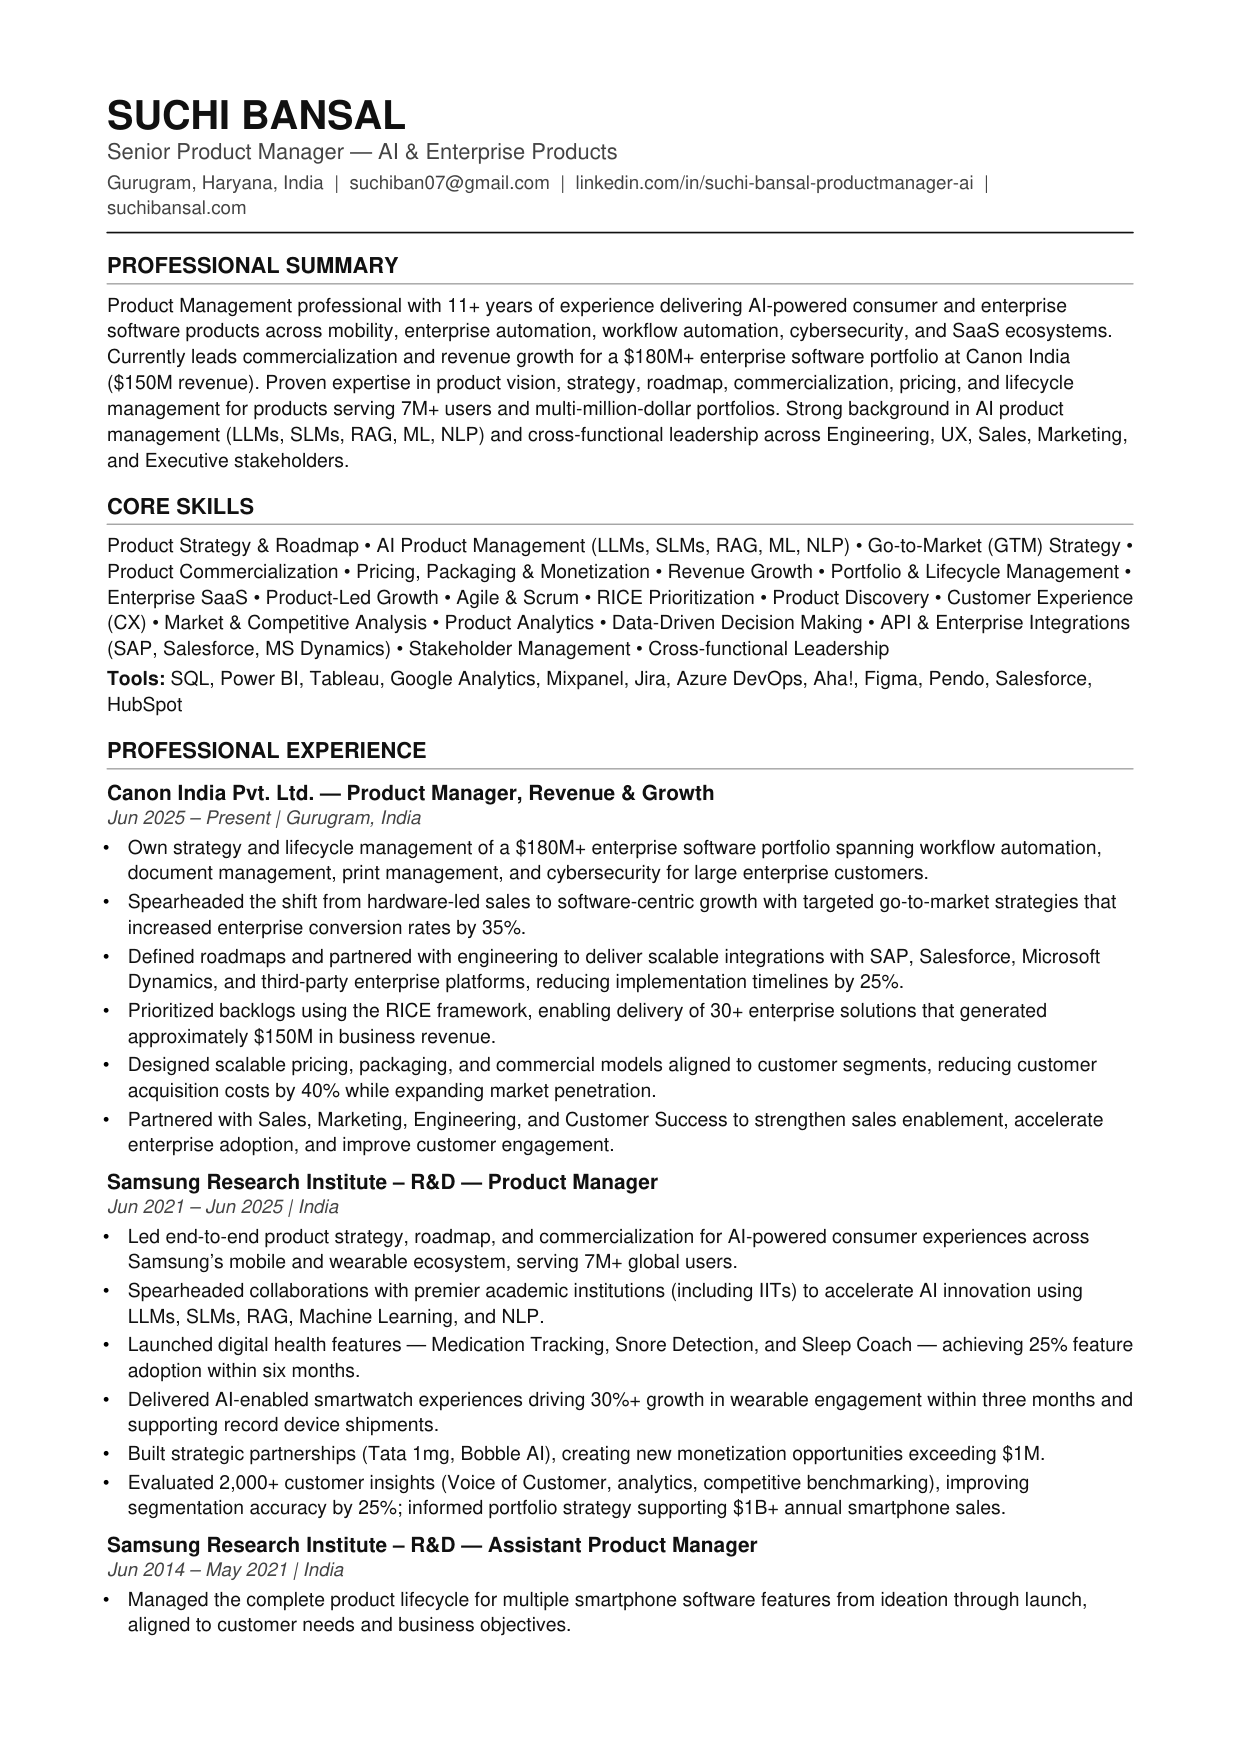
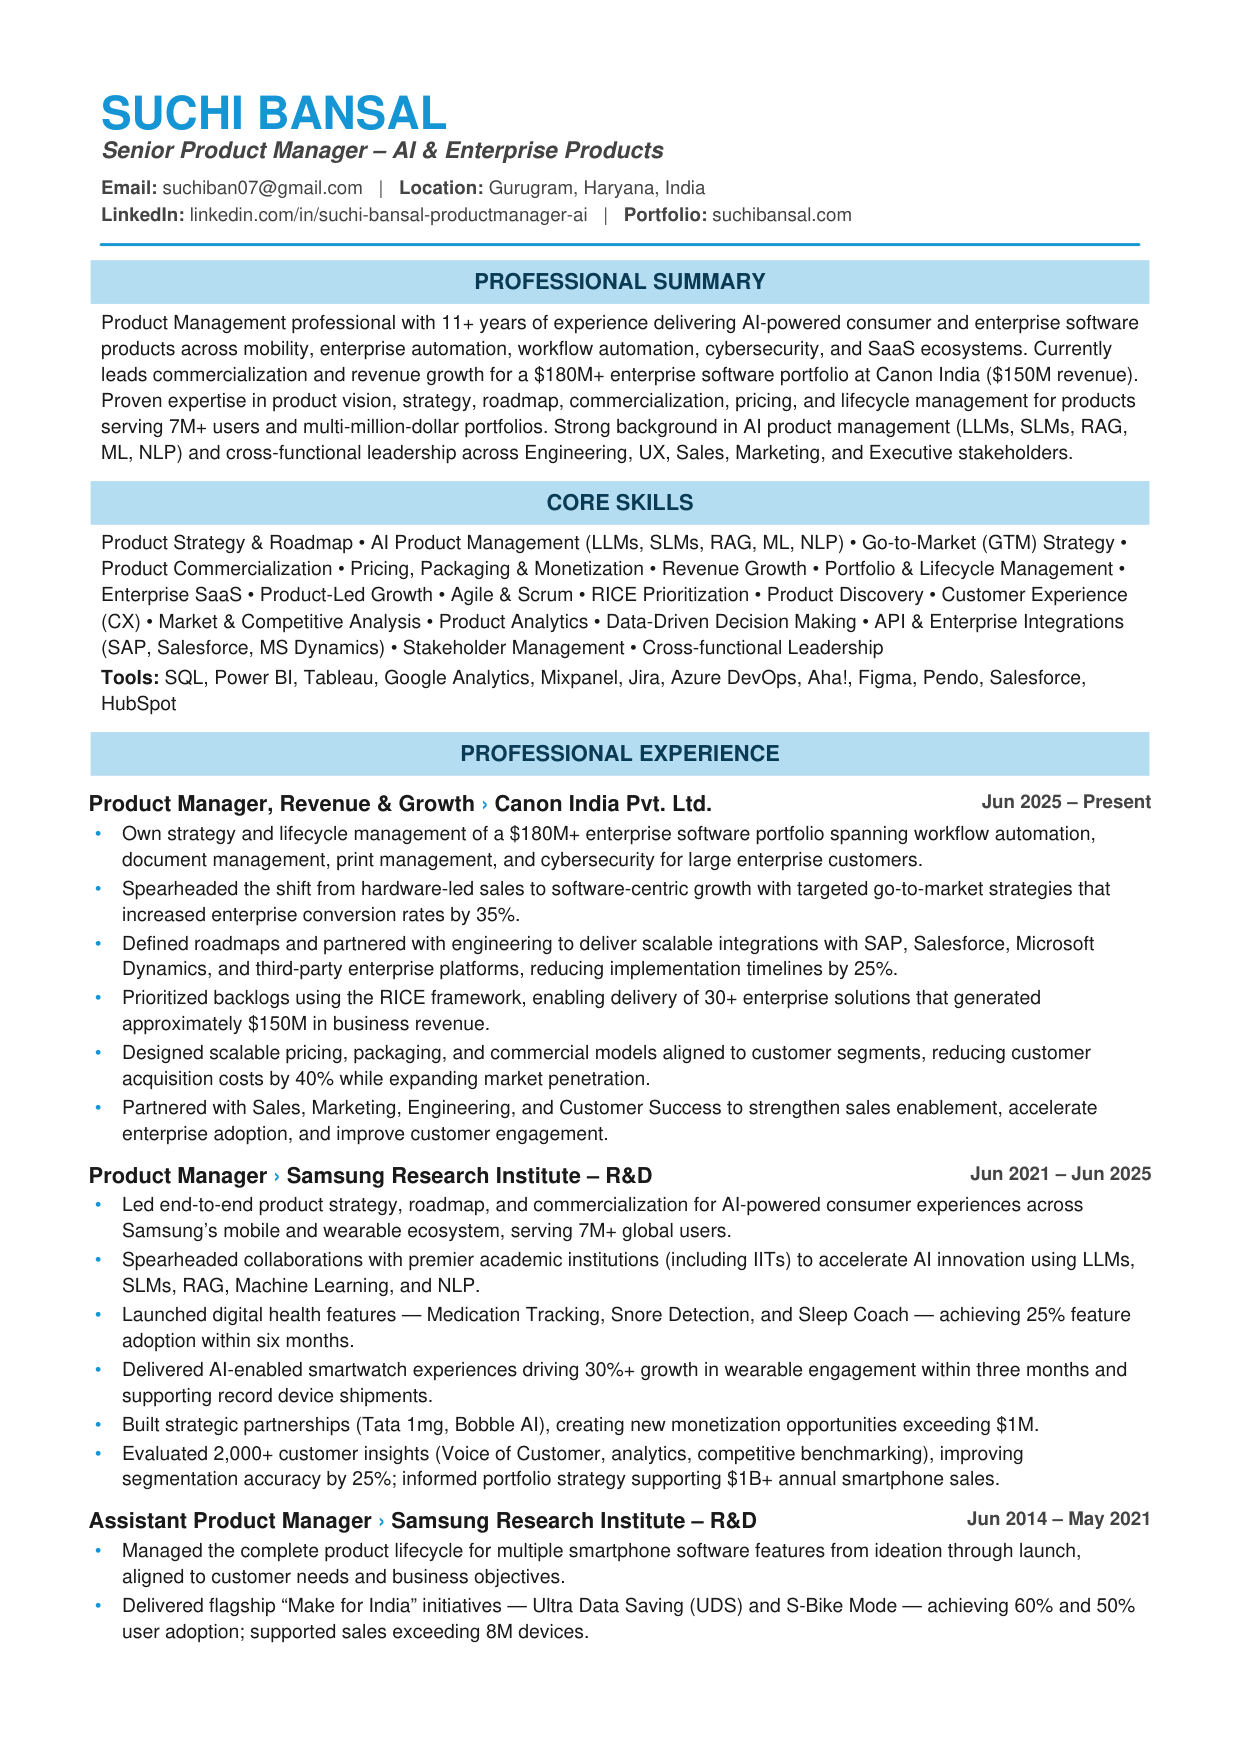
Résumé: polished sky-blue styling (name, header rule, section bars)
Restyle the résumé from plain to a designed-but-ATS-safe layout: sky-blue
name/headline, sky-blue header rule, full-width light sky-blue section bars,
sky-blue role markers/bullets, and right-aligned dates. Single column,
selectable text — still parses in ATS. Regenerate the PDF + page images
(build script now rasterizes pages too); bump modal image cache to v=2.

Changed region(s): [[0.0612, 0.0308, 0.9492, 0.9544]]

diff --git a/index.html b/index.html
@@ -1221,8 +1221,8 @@
       </div>
       <!-- Résumé pages as images: renders reliably in-page on every device (desktop + mobile) -->
       <div id="resume-pages" class="flex-1 min-h-0 overflow-y-auto bg-neutral-700 flex flex-col items-center gap-3 p-3 sm:p-4">
-        <img data-src="assets/resume-page-1.png?v=1" alt="Suchi Bansal résumé — page 1" class="w-full max-w-3xl block rounded shadow-lg bg-white">
-        <img data-src="assets/resume-page-2.png?v=1" alt="Suchi Bansal résumé — page 2" class="w-full max-w-3xl block rounded shadow-lg bg-white">
+        <img data-src="assets/resume-page-1.png?v=2" alt="Suchi Bansal résumé — page 1" class="w-full max-w-3xl block rounded shadow-lg bg-white">
+        <img data-src="assets/resume-page-2.png?v=2" alt="Suchi Bansal résumé — page 2" class="w-full max-w-3xl block rounded shadow-lg bg-white">
       </div>
     </div>
   </div>

diff --git a/scripts/build_resume.py b/scripts/build_resume.py
@@ -1,75 +1,83 @@
-"""Generate an ATS-friendly, single-column resume PDF (selectable text, standard
-headings, no multi-column/boxes/graphics). India + global standard. A4.
-Deliberately omits phone number and date of birth (public hosted copy)."""
+"""Generate an ATS-friendly resume PDF with a light sky-blue accent:
+sky-blue name/headline, sky-blue header rule, and full-width sky-blue section
+bars. Single column, selectable text, no photos/multi-column — parses in ATS.
+Also rasterizes the pages to PNG for the in-page modal viewer.
+Omits phone number and date of birth (public hosted copy)."""
 from reportlab.lib.pagesizes import A4
 from reportlab.lib.units import cm
-from reportlab.lib.enums import TA_LEFT
+from reportlab.lib.enums import TA_LEFT, TA_CENTER, TA_RIGHT
 from reportlab.lib.colors import HexColor
 from reportlab.platypus import (SimpleDocTemplate, Paragraph, Spacer, HRFlowable,
-                                ListFlowable, ListItem)
+                                ListFlowable, ListItem, Table, TableStyle, KeepTogether)
 from reportlab.lib.styles import ParagraphStyle
 
-INK = HexColor('#111111')
-GREY = HexColor('#444444')
-LINE = HexColor('#999999')
+INK   = HexColor('#1A1A1A')
+GREY  = HexColor('#444444')
+SKY   = HexColor('#1596D4')   # headline + rule
+BAR_BG= HexColor('#B6DDF2')   # section bar background (light sky)
+BAR_TX= HexColor('#0B3B55')   # section bar text (dark navy)
 
-styles = {
-    'name': ParagraphStyle('name', fontName='Helvetica-Bold', fontSize=19, leading=22,
-                           textColor=INK, spaceAfter=1),
-    'title': ParagraphStyle('title', fontName='Helvetica', fontSize=10.5, leading=13,
-                            textColor=GREY, spaceAfter=3),
-    'contact': ParagraphStyle('contact', fontName='Helvetica', fontSize=9, leading=12,
-                              textColor=GREY, spaceAfter=2),
-    'h': ParagraphStyle('h', fontName='Helvetica-Bold', fontSize=10.5, leading=13,
-                        textColor=INK, spaceBefore=9, spaceAfter=2,
-                        tracking=0),
-    'sub': ParagraphStyle('sub', fontName='Helvetica-Bold', fontSize=10, leading=12.5,
-                         textColor=INK, spaceBefore=5, spaceAfter=0),
-    'meta': ParagraphStyle('meta', fontName='Helvetica-Oblique', fontSize=9, leading=12,
-                          textColor=GREY, spaceAfter=2),
-    'body': ParagraphStyle('body', fontName='Helvetica', fontSize=9.3, leading=12.4,
+S = {
+ 'name':   ParagraphStyle('name', fontName='Helvetica-Bold', fontSize=22, leading=24,
+                          textColor=SKY, spaceAfter=1),
+ 'title':  ParagraphStyle('title', fontName='Helvetica-BoldOblique', fontSize=11, leading=14,
+                          textColor=GREY, spaceAfter=5),
+ 'contact':ParagraphStyle('contact', fontName='Helvetica', fontSize=9, leading=13,
+                          textColor=GREY),
+ 'bar':    ParagraphStyle('bar', fontName='Helvetica-Bold', fontSize=10.5, leading=14,
+                          textColor=BAR_TX, backColor=BAR_BG, alignment=TA_CENTER,
+                          borderPadding=(3.5, 5, 3.5, 5), spaceBefore=11, spaceAfter=6),
+ 'role':   ParagraphStyle('role', fontName='Helvetica-Bold', fontSize=10.5, leading=13,
+                          textColor=INK),
+ 'dates':  ParagraphStyle('dates', fontName='Helvetica-Bold', fontSize=9, leading=13,
+                          textColor=GREY, alignment=TA_RIGHT),
+ 'body':   ParagraphStyle('body', fontName='Helvetica', fontSize=9.3, leading=12.5,
                           textColor=INK, spaceAfter=2, alignment=TA_LEFT),
-    'bullet': ParagraphStyle('bullet', fontName='Helvetica', fontSize=9.3, leading=12.3,
-                            textColor=INK, spaceAfter=1.5, alignment=TA_LEFT),
+ 'bullet': ParagraphStyle('bullet', fontName='Helvetica', fontSize=9.3, leading=12.4,
+                          textColor=INK, spaceAfter=1.5, alignment=TA_LEFT),
 }
 
+PDF = 'assets/Suchi-Bansal-Resume.pdf'
+doc = SimpleDocTemplate(PDF, pagesize=A4, leftMargin=1.5*cm, rightMargin=1.5*cm,
+                        topMargin=1.2*cm, bottomMargin=1.1*cm,
+                        title='Suchi Bansal - Resume', author='Suchi Bansal',
+                        subject='Senior Product Manager - AI & Enterprise Products')
+
 def heading(text):
-    return [Paragraph(text.upper(), styles['h']),
-            HRFlowable(width='100%', thickness=0.6, color=LINE,
-                       spaceBefore=1, spaceAfter=4)]
+    return Paragraph(text.upper(), S['bar'])
 
 def bullets(items):
     return ListFlowable(
-        [ListItem(Paragraph(t, styles['bullet']), leftIndent=10, value='•')
-         for t in items],
-        bulletType='bullet', start='•', leftIndent=12, bulletFontName='Helvetica',
-        bulletFontSize=9.3, spaceBefore=1, spaceAfter=3)
+        [ListItem(Paragraph(t, S['bullet']), leftIndent=10, value='•') for t in items],
+        bulletType='bullet', start='•', leftIndent=13, bulletFontName='Helvetica',
+        bulletColor=SKY, bulletFontSize=9.3, spaceBefore=1, spaceAfter=3)
 
-def role(company, title, dates, location, items):
-    out = [Paragraph(f"{company} &mdash; {title}", styles['sub']),
-           Paragraph(f"{dates} | {location}", styles['meta']),
-           bullets(items)]
-    return out
+def role_row(role, company, dates):
+    left = Paragraph(f"{role} <font color='#1596D4'>&rsaquo;</font> {company}", S['role'])
+    right = Paragraph(dates, S['dates'])
+    t = Table([[left, right]], colWidths=[doc.width*0.70, doc.width*0.30])
+    t.setStyle(TableStyle([
+        ('VALIGN', (0,0), (-1,-1), 'BOTTOM'),
+        ('LEFTPADDING', (0,0), (-1,-1), 0), ('RIGHTPADDING', (0,0), (-1,-1), 0),
+        ('TOPPADDING', (0,0), (-1,-1), 4), ('BOTTOMPADDING', (0,0), (-1,-1), 1),
+    ]))
+    return t
 
-doc = SimpleDocTemplate('assets/Suchi-Bansal-Resume.pdf', pagesize=A4,
-                        leftMargin=1.6*cm, rightMargin=1.6*cm,
-                        topMargin=1.3*cm, bottomMargin=1.2*cm,
-                        title='Suchi Bansal - Resume', author='Suchi Bansal',
-                        subject='Senior Product Manager - AI & Enterprise Products')
-S = []
-
+F = []
 # Header
-S.append(Paragraph('SUCHI BANSAL', styles['name']))
-S.append(Paragraph('Senior Product Manager &mdash; AI &amp; Enterprise Products', styles['title']))
-S.append(Paragraph(
-    'Gurugram, Haryana, India &nbsp;|&nbsp; suchiban07@gmail.com &nbsp;|&nbsp; '
-    'linkedin.com/in/suchi-bansal-productmanager-ai &nbsp;|&nbsp; suchibansal.com',
-    styles['contact']))
-S.append(HRFlowable(width='100%', thickness=0.8, color=INK, spaceBefore=5, spaceAfter=2))
+F.append(Paragraph('SUCHI BANSAL', S['name']))
+F.append(Paragraph('Senior Product Manager &ndash; AI &amp; Enterprise Products', S['title']))
+F.append(Paragraph(
+    "<b>Email:</b> suchiban07@gmail.com &nbsp;&nbsp;|&nbsp;&nbsp; "
+    "<b>Location:</b> Gurugram, Haryana, India", S['contact']))
+F.append(Paragraph(
+    "<b>LinkedIn:</b> linkedin.com/in/suchi-bansal-productmanager-ai &nbsp;&nbsp;|&nbsp;&nbsp; "
+    "<b>Portfolio:</b> suchibansal.com", S['contact']))
+F.append(HRFlowable(width='100%', thickness=1.4, color=SKY, spaceBefore=6, spaceAfter=2))
 
 # Summary
-S += heading('Professional Summary')
-S.append(Paragraph(
+F.append(heading('Professional Summary'))
+F.append(Paragraph(
     'Product Management professional with 11+ years of experience delivering AI-powered '
     'consumer and enterprise software products across mobility, enterprise automation, '
     'workflow automation, cybersecurity, and SaaS ecosystems. Currently leads '
@@ -78,11 +86,11 @@ S.append(Paragraph(
     'commercialization, pricing, and lifecycle management for products serving 7M+ users and '
     'multi-million-dollar portfolios. Strong background in AI product management (LLMs, SLMs, '
     'RAG, ML, NLP) and cross-functional leadership across Engineering, UX, Sales, Marketing, '
-    'and Executive stakeholders.', styles['body']))
+    'and Executive stakeholders.', S['body']))
 
 # Core skills
-S += heading('Core Skills')
-S.append(Paragraph(
+F.append(heading('Core Skills'))
+F.append(Paragraph(
     'Product Strategy &amp; Roadmap &bull; AI Product Management (LLMs, SLMs, RAG, ML, NLP) '
     '&bull; Go-to-Market (GTM) Strategy &bull; Product Commercialization &bull; Pricing, '
     'Packaging &amp; Monetization &bull; Revenue Growth &bull; Portfolio &amp; Lifecycle '
@@ -90,15 +98,16 @@ S.append(Paragraph(
     '&bull; RICE Prioritization &bull; Product Discovery &bull; Customer Experience (CX) '
     '&bull; Market &amp; Competitive Analysis &bull; Product Analytics &bull; Data-Driven '
     'Decision Making &bull; API &amp; Enterprise Integrations (SAP, Salesforce, MS Dynamics) '
-    '&bull; Stakeholder Management &bull; Cross-functional Leadership', styles['body']))
-S.append(Paragraph(
+    '&bull; Stakeholder Management &bull; Cross-functional Leadership', S['body']))
+F.append(Paragraph(
     '<b>Tools:</b> SQL, Power BI, Tableau, Google Analytics, Mixpanel, Jira, Azure DevOps, '
-    'Aha!, Figma, Pendo, Salesforce, HubSpot', styles['body']))
+    'Aha!, Figma, Pendo, Salesforce, HubSpot', S['body']))
 
 # Experience
-S += heading('Professional Experience')
-S += role('Canon India Pvt. Ltd.', 'Product Manager, Revenue &amp; Growth',
-          'Jun 2025 &ndash; Present', 'Gurugram, India', [
+F.append(heading('Professional Experience'))
+F.append(role_row('Product Manager, Revenue &amp; Growth', 'Canon India Pvt. Ltd.',
+                  'Jun 2025 &ndash; Present'))
+F.append(bullets([
     'Own strategy and lifecycle management of a $180M+ enterprise software portfolio spanning '
     'workflow automation, document management, print management, and cybersecurity for large '
     'enterprise customers.',
@@ -113,9 +122,10 @@ S += role('Canon India Pvt. Ltd.', 'Product Manager, Revenue &amp; Growth',
     'reducing customer acquisition costs by 40% while expanding market penetration.',
     'Partnered with Sales, Marketing, Engineering, and Customer Success to strengthen sales '
     'enablement, accelerate enterprise adoption, and improve customer engagement.',
-])
-S += role('Samsung Research Institute &ndash; R&amp;D', 'Product Manager',
-          'Jun 2021 &ndash; Jun 2025', 'India', [
+]))
+F.append(role_row('Product Manager', 'Samsung Research Institute &ndash; R&amp;D',
+                  'Jun 2021 &ndash; Jun 2025'))
+F.append(bullets([
     'Led end-to-end product strategy, roadmap, and commercialization for AI-powered consumer '
     'experiences across Samsung’s mobile and wearable ecosystem, serving 7M+ global users.',
     'Spearheaded collaborations with premier academic institutions (including IITs) to '
@@ -129,23 +139,23 @@ S += role('Samsung Research Institute &ndash; R&amp;D', 'Product Manager',
     'Evaluated 2,000+ customer insights (Voice of Customer, analytics, competitive '
     'benchmarking), improving segmentation accuracy by 25%; informed portfolio strategy '
     'supporting $1B+ annual smartphone sales.',
-])
-S += role('Samsung Research Institute &ndash; R&amp;D', 'Assistant Product Manager',
-          'Jun 2014 &ndash; May 2021', 'India', [
+]))
+F.append(role_row('Assistant Product Manager', 'Samsung Research Institute &ndash; R&amp;D',
+                  'Jun 2014 &ndash; May 2021'))
+F.append(bullets([
     'Managed the complete product lifecycle for multiple smartphone software features from '
     'ideation through launch, aligned to customer needs and business objectives.',
-    'Delivered flagship “Make for India” initiatives — Ultra Data Saving (UDS) '
-    'and S-Bike Mode — achieving 60% and 50% user adoption; supported sales exceeding '
-    '8M devices.',
+    'Delivered flagship “Make for India” initiatives — Ultra Data Saving (UDS) and '
+    'S-Bike Mode — achieving 60% and 50% user adoption; supported sales exceeding 8M devices.',
     'Defined requirements, prioritized backlogs, and collaborated with engineering using '
     'Agile methodologies to deliver high-quality releases across product generations.',
     'Resolved critical product issues (device heating, stability, UI responsiveness) with '
     '24–48 hour turnaround and 85% customer satisfaction.',
-])
+]))
 
 # Projects
-S += heading('Key Projects &amp; Innovation')
-S.append(bullets([
+F.append(heading('Key Projects &amp; Innovation'))
+F.append(bullets([
     '<b>Ecocreds</b> (Sustainability Hackathon) — carbon-credit incentives and '
     'gamification; incentivized 1,000+ sustainable actions.',
     '<b>EcoVoyage</b> — Carbon Offset as a Service (B2B/B2C); monetization models '
@@ -157,8 +167,8 @@ S.append(bullets([
 ]))
 
 # Education
-S += heading('Education')
-S.append(bullets([
+F.append(heading('Education'))
+F.append(bullets([
     'Executive MBA, HR &amp; Administration (People Management) — Tata Institute of Social '
     'Sciences (TISS), Mumbai',
     'Managing Brands &amp; Marketing Communication — MICA, Ahmedabad',
@@ -167,16 +177,16 @@ S.append(bullets([
 ]))
 
 # Patents
-S += heading('Patents')
-S.append(bullets([
+F.append(heading('Patents'))
+F.append(bullets([
     'Method &amp; System for Secure Data Sharing using Blockchain Network — Patent No. '
     '201941021587',
     'Action Emojis — Patent No. 201811046219',
 ]))
 
 # Honors
-S += heading('Honors &amp; Achievements')
-S.append(bullets([
+F.append(heading('Honors &amp; Achievements'))
+F.append(bullets([
     'Spearheaded Startup Summit 2025, convening India’s leading AI, HealthTech, and '
     'DeepTech startups.',
     'Snore Detection &amp; Sleep Coach contributed to 200%+ quarter-on-quarter shipment growth '
@@ -187,8 +197,15 @@ S.append(bullets([
 ]))
 
 # Languages
-S += heading('Languages')
-S.append(Paragraph('English, Hindi, Korean', styles['body']))
+F.append(heading('Languages'))
+F.append(Paragraph('English, Hindi, Korean', S['body']))
 
-doc.build(S)
-print('built assets/Suchi-Bansal-Resume.pdf')
+doc.build(F)
+print('built', PDF)
+
+# Rasterize pages to PNG for the in-page modal viewer
+import pymupdf
+d = pymupdf.open(PDF)
+for i in range(d.page_count):
+    d[i].get_pixmap(dpi=150).save(f'assets/resume-page-{i+1}.png')
+print('rendered', d.page_count, 'page images')
